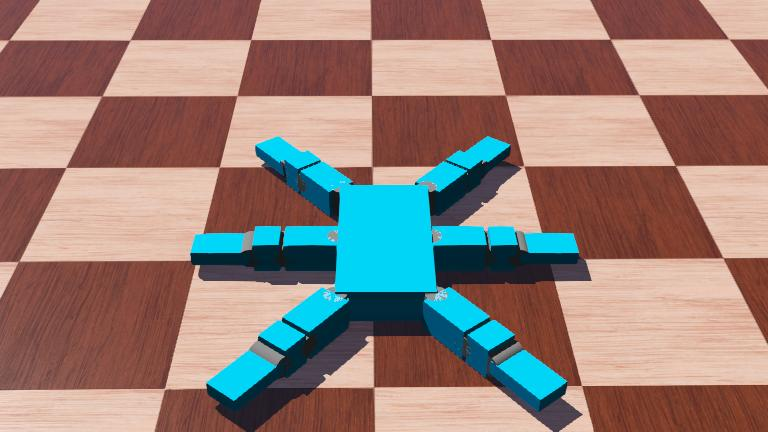
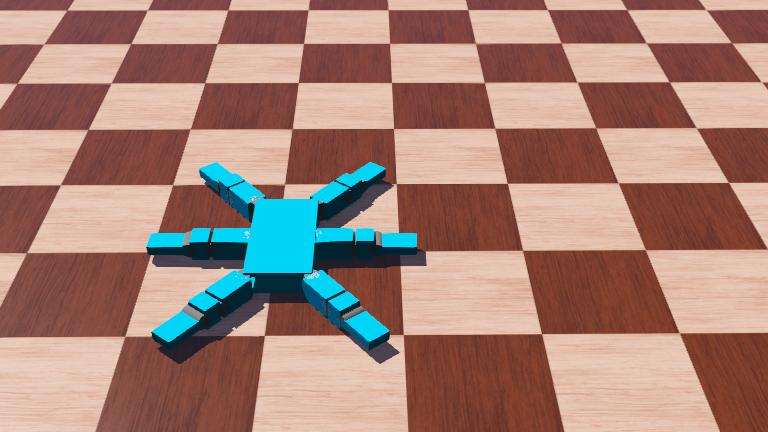
Add small tweaks in robot model and learning script

diff --git a/webotsSimulation/controllers/hexapod_rl/hexapod_env.py b/webotsSimulation/controllers/hexapod_rl/hexapod_env.py
@@ -8,7 +8,7 @@ TIME_STEP = 32                 # ms but it doesnt work precisly
 MAX_EPISODE_STEPS = 1000
 
 JOINT_LIMITS = {
-    "coax":  (-0.1, 0.1),      # from webots
+    "coax":  (-0.4, 0.4),      # from webots
     "femur": (-1.0,  1.0),              # temp values, to be checked
     "tibia": (-1.0,  2),
 }
@@ -50,6 +50,8 @@ class HexapodEnv(gym.Env):
 
         self.robot = Supervisor()
         self.timestep = TIME_STEP
+
+        self.robot.step(0)
 
         # sensors
 
@@ -243,40 +245,3 @@ class HexapodEnv(gym.Env):
 
     def close(self):
         pass
-
-# try:
-
-#     env = HexapodEnv()
-
-    # robot = Supervisor()
-    # timestep = int(TIME_STEP)
-    # print(f"dziala {int(robot.getBasicTimeStep())}")
-
-    # if robot.step(timestep) != -1:
-    #     print("symulaja chodzi")
-
-    # gps = robot.getDevice("gps")
-    # gps.enable(timestep)
-
-    # imu = robot.getDevice("inertial unit")
-    # imu.enable(timestep)
-
-    # gyro = robot.getDevice("gyro")
-    # gyro.enable(timestep)
-
-    # motor = robot.getDevice("femur_lf_motor")
-    # motor.setPosition(0.5)
-
-    # while robot.step(timestep) != -1:
-    #     values_gps = gps.getValues()
-    #     values_gyro = gyro.getValues()
-    #     values_imu = imu.getRollPitchYaw()
-
-    #     gps_fmt  = [f"{v:8.3f}" for v in values_gps]
-    #     imu_fmt  = [f"{v:8.3f}" for v in values_imu]
-    #     gyro_fmt = [f"{v:8.3f}" for v in values_gyro]
-
-    #     print(f"GPS: {gps_fmt}  IMU: {imu_fmt}  Gyro: {gyro_fmt}")
-
-# except Exception as e: 
-#     print(f"Błąd {e}")

diff --git a/rl_training/train.py b/rl_training/train.py
@@ -21,24 +21,24 @@ from stable_baselines3.common.callbacks import (
 from webotsSimulation.controllers.hexapod_rl.hexapod_env import HexapodEnv
 
 PPO_CONFIG = dict(
-    n_steps = 128,       # 2048      # steps before actualization
+    n_steps = 512,       # 2048      # steps before actualization
     batch_size = 64,            # size of mini batch before actialization
     n_epochs = 10,              
     gamma = 0.99,
-    gae_lambda = 0.5,
+    gae_lambda = 0.95,
     clip_range = 0.2,
-    ent_coef = 0.01,
+    ent_coef = 0.1,
     learning_rate = 3e-4,
     policy_kwargs = dict(
         net_arch = dict(
-            pi = [256, 256],
-            vf = [256, 256],
+            pi = [512, 512],
+            vf = [512, 512],
         )
     ),
 )
 
-TOTAL_TIMESTEPS = 20000
-CHECKPOINT_FREQ = 5000
+TOTAL_TIMESTEPS = 2000000
+CHECKPOINT_FREQ = 50000
 # EVAL_FREQ = 25000
 # EVAL_EPISODES = 5
 
